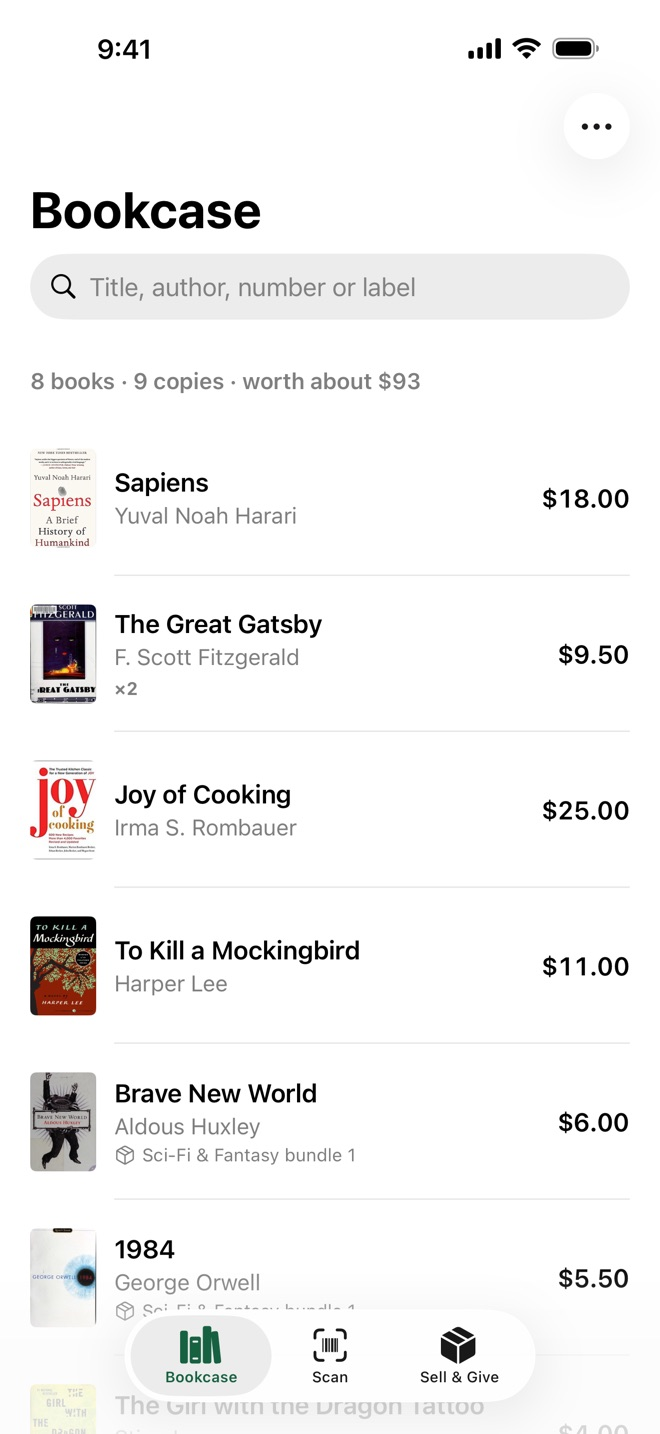
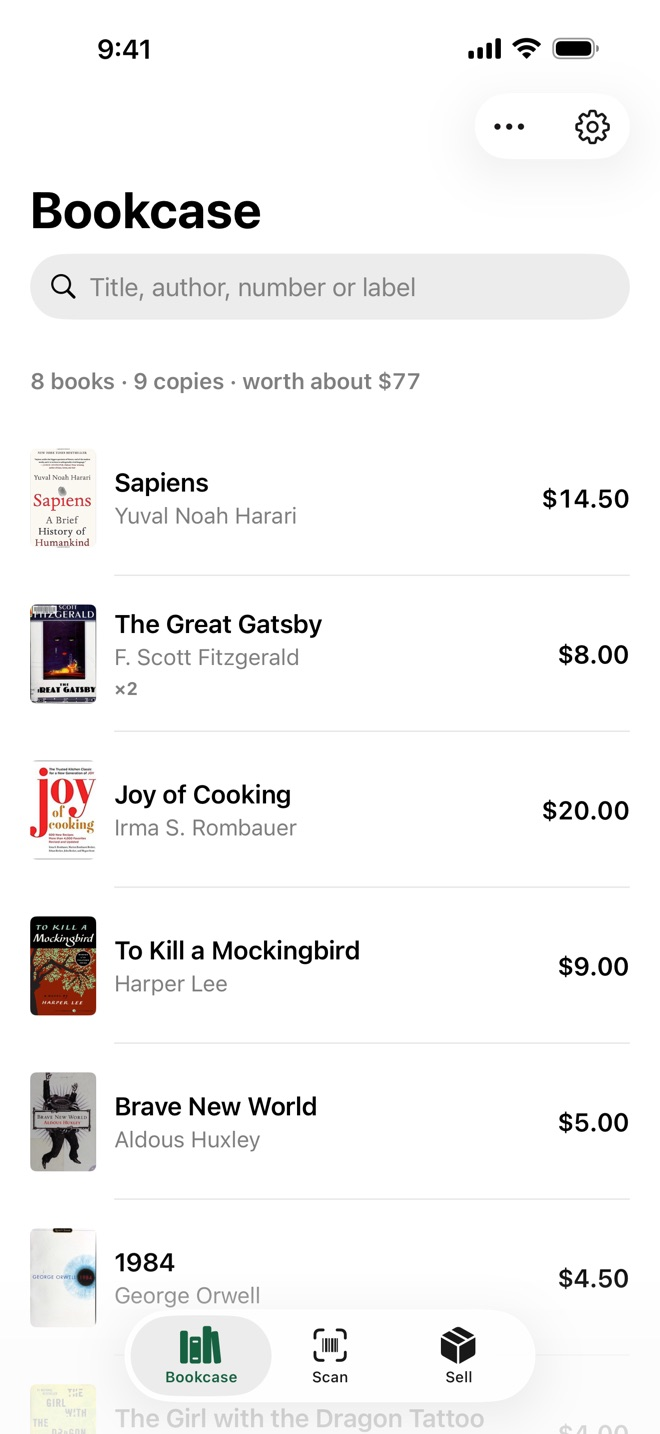
Bookcase 1.1: the Sell tab, two groups, older books, new screenshots

diff --git a/index.html b/index.html
@@ -67,8 +67,8 @@
                 </li>
                 <li>
                     <figure>
-                        <img src="screenshots/03-sell-and-give.jpg" alt="The Sell &amp; Give tab: books sorted into buyback, sell online and give away groups, with lists to make" width="660" height="1434" loading="lazy" decoding="async">
-                        <figcaption>Sell &amp; Give</figcaption>
+                        <img src="screenshots/03-sell-and-give.jpg" alt="The Sell tab: books sorted into buyback and sell online groups, with lists to make" width="660" height="1434" loading="lazy" decoding="async">
+                        <figcaption>Sell</figcaption>
                     </figure>
                 </li>
                 <li>
@@ -91,6 +91,7 @@
             <ul>
                 <li>Every book with its cover, title, author and value</li>
                 <li>No barcode? Point at the cover and tap the button</li>
+                <li>Older books too: paperback store barcodes and pre-1974 numbers</li>
                 <li>Search by title, author or number</li>
                 <li>Copies counted when you own more than one</li>
                 <li>Add a whole list at once from a spreadsheet</li>
@@ -100,8 +101,8 @@
         </section>
 
         <section>
-            <h3>Sell &amp; Give</h3>
-            <p>When you're ready to part with some, the Sell &amp; Give tab sorts your books into three groups: worth asking a buyback site about, worth selling online, and best given away. One tap makes the upload list for a buyback site, AbeBooks, eBay or Amazon, a bundle sheet for a live show or garage sale, or a copy of all your books. You never type a listing by hand.</p>
+            <h3>Sell</h3>
+            <p>When you're ready to part with some, the Sell tab sorts your books into two groups: worth asking a buyback site about, and worth selling online. One tap makes the upload list for a buyback site (and for AbeBooks, eBay or Amazon once eBay values are set up), or a copy of all your books. You never type a listing by hand.</p>
         </section>
 
         <section>

diff --git a/privacy.html b/privacy.html
@@ -22,7 +22,7 @@
 
     <main class="container">
         <h2>Privacy Policy</h2>
-        <p><em>Last updated: October 18, 2026</em></p>
+        <p><em>Last updated: October 25, 2026</em></p>
 
         <section>
             <h3>Overview</h3>
@@ -35,7 +35,7 @@
             <ul>
                 <li>your list of books, with their titles, authors, covers, copies and conditions; covers are kept on your phone so the bookcase shows them without a connection</li>
                 <li>the values, the prices you typed and your notes</li>
-                <li>your groups and bundles</li>
+                <li>your groups</li>
                 <li>your settings, including the country you picked</li>
                 <li>the keys whoever set up the phone typed in or added from a keys link (the eBay secret is kept in the iPhone's Keychain); keys built into the app by whoever built it are part of the app itself and are never stored anywhere else</li>
             </ul>
@@ -70,7 +70,7 @@
 
         <section>
             <h3>Files you make</h3>
-            <p>When you make a list or a spreadsheet on the <strong>Sell &amp; Give</strong> tab, or the spreadsheet of everything, Bookcase makes a file and opens the share sheet. The file goes only where you send it: for example to Files, Mail, or a selling site you upload it to. When you add books from a spreadsheet, Bookcase reads the file you pick on the phone and sends nothing from it except each book's number, to look the book up as above.</p>
+            <p>When you make a list or a spreadsheet on the <strong>Sell</strong> tab, or the copy of all your books, Bookcase makes a file and opens the share sheet. The file goes only where you send it: for example to Files, Mail, or a selling site you upload it to. When you add books from a spreadsheet, Bookcase reads the file you pick on the phone and sends nothing from it except each book's number, to look the book up as above.</p>
         </section>
 
         <section>
